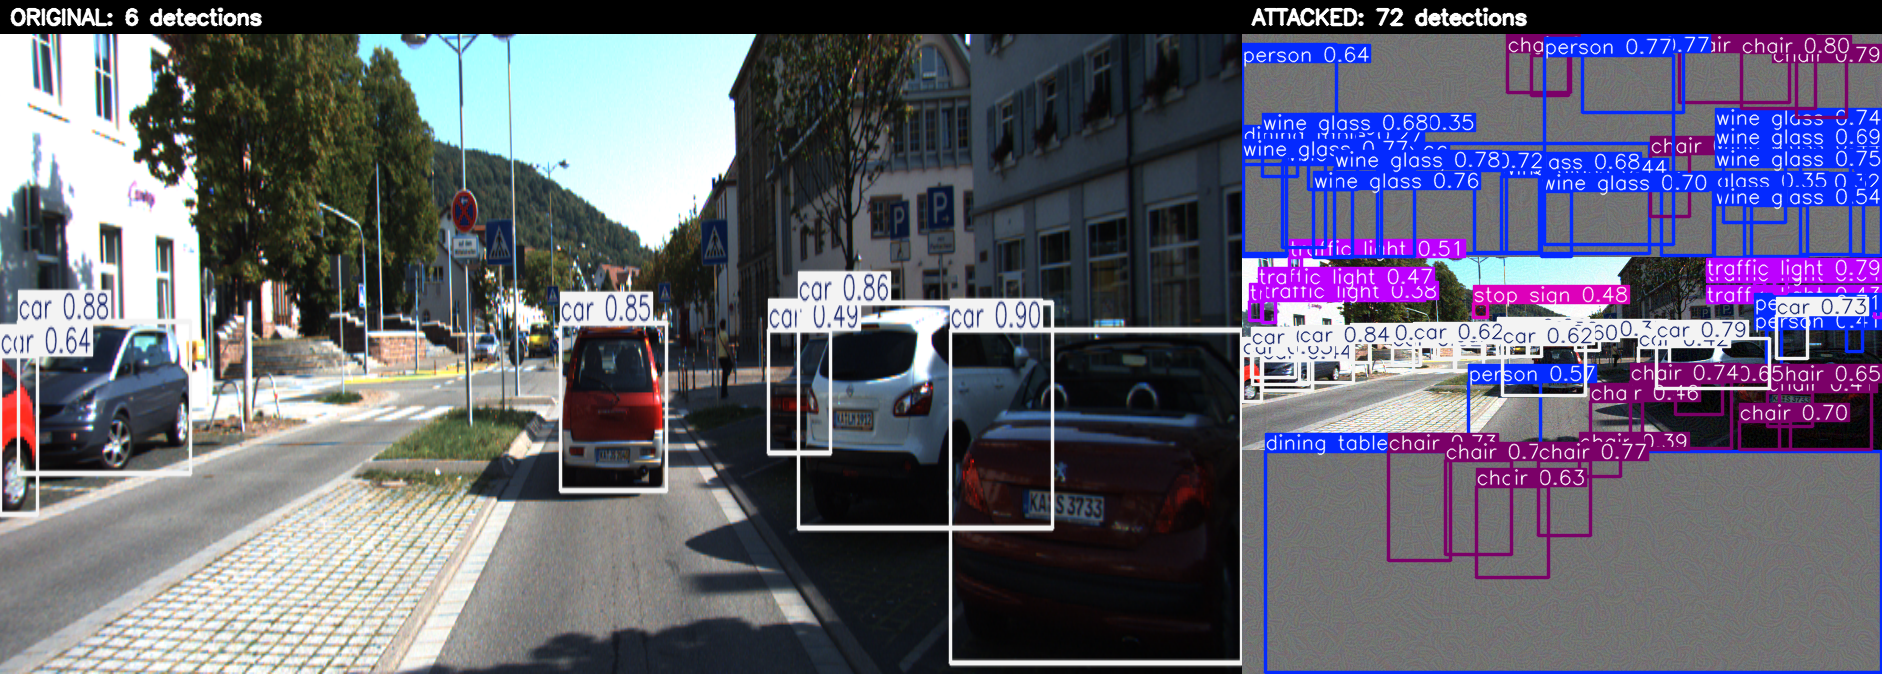
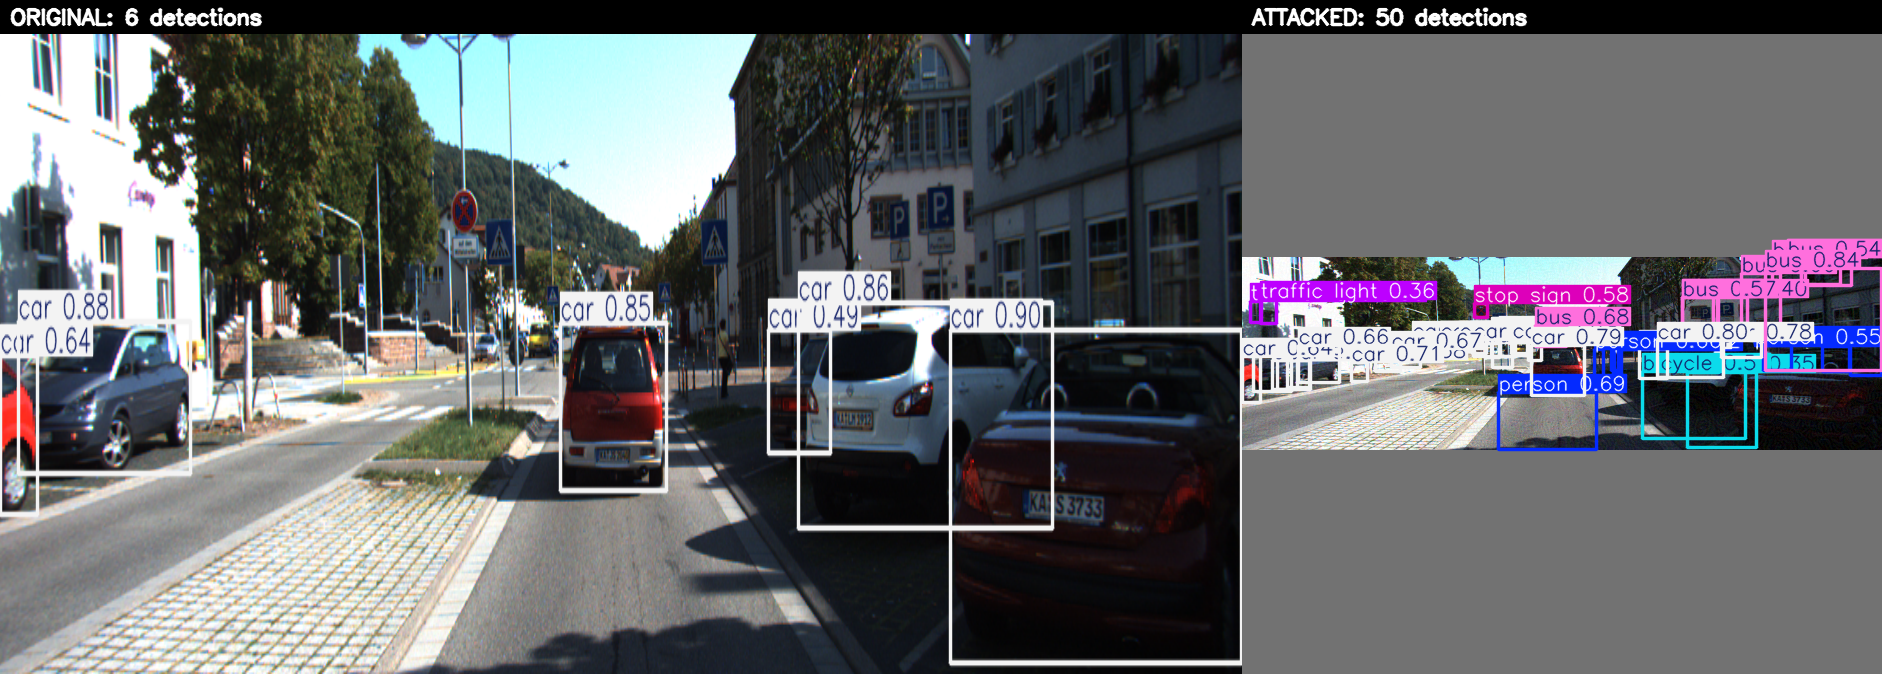
Add content-region mask; re-run KITTI with realizable threat model
The attack now masks both the perturbation (pixels) and the flood loss
(anchors) to the scene-content region, excluding the grey letterbox padding a
real camera attacker can't control. Previously ~45% of the flood was
un-realizable padding detections.

Content-only KITTI seq 0011 results (warmed, median): detections 5.8 -> 51.7,
SlowTrack tracker 0.684 -> 2.136 ms = ~3.1x (was 5.2x with padding), tracks
4.7 -> 17.5. Regenerated compare image now shows boxes only in scene content,
clean grey bars. README + results.md updated.

Changed region(s): [[0.6472, 0.0312, 1.0, 1.0], [0.6472, 0.0623, 0.7396, 0.1246], [0.7088, 0.0, 0.7396, 0.0312]]

diff --git a/src/attack.py b/src/attack.py
@@ -32,26 +32,47 @@ def weighted_var(v, w, eps=1e-6):
     return var.mean()
 
 
-def pgd_attack(model, x0, tau, alpha, eps, step, iters, lam, imgsz):
-    """Returns adversarial image (same shape as x0, in [0,1])."""
+def pixel_mask(x0, content):
+    """[1,1,H,W] mask: 1 inside the scene-content rect, 0 in the letterbox padding."""
+    x0c, y0c, x1c, y1c = content
+    m = torch.zeros_like(x0[:, :1])
+    m[:, :, y0c:y1c, x0c:x1c] = 1.0
+    return m
+
+
+def anchor_mask(model, content):
+    """[A] mask of anchors whose center lies in the scene-content rect. Restricts
+    the flood/spread loss to content anchors (valid after a dense() call)."""
+    ax, ay = model.anchor_centers()
+    x0c, y0c, x1c, y1c = content
+    return ((ax >= x0c) & (ax < x1c) & (ay >= y0c) & (ay < y1c)).float()
+
+
+def pgd_attack(model, x0, content, tau, alpha, eps, step, iters, lam, imgsz):
+    """Returns adversarial image (same shape as x0, in [0,1]). The perturbation
+    and the loss are restricted to the scene-content region (no padding cheating)."""
+    pmask = pixel_mask(x0, content)
+    model.dense(x0)                                  # populate head anchors for the mask
+    amask = anchor_mask(model, content)
     delta = torch.zeros_like(x0, requires_grad=True)
     for _ in range(iters):
         boxes, conf = model.dense((x0 + delta).clamp(0, 1))
-        w = torch.sigmoid(alpha * (conf - tau))         # soft "is a detection"
-        flood = w.sum(dim=1).mean()                      # L_flood: maximize count
+        w = torch.sigmoid(alpha * (conf - tau)) * amask   # only content anchors
+        flood = w.sum(dim=1).mean()                       # L_flood: maximize count
         cx = (boxes[:, 0, :] + boxes[:, 2, :]) / 2 / imgsz   # box centers (boxes are xyxy)
         cy = (boxes[:, 1, :] + boxes[:, 3, :]) / 2 / imgsz
         spread = weighted_var(cx, w) + weighted_var(cy, w)   # L_spread: diversity
         loss = -(flood + lam * spread)                   # PGD minimizes -> count goes up
         g = torch.autograd.grad(loss, delta)[0]
         delta = (delta - step * g.sign()).clamp(-eps, eps)
+        delta = delta * pmask                            # freeze padding pixels at grey
         delta = ((x0 + delta).clamp(0, 1) - x0).detach().requires_grad_(True)
     return (x0 + delta).clamp(0, 1).detach()
 
 
-def random_noise(x0, eps):
-    """Control: uniform L-inf noise of the same budget, no gradient signal."""
-    d = (torch.rand_like(x0) * 2 - 1) * eps
+def random_noise(x0, content, eps):
+    """Control: uniform L-inf noise of the same budget, restricted to content."""
+    d = (torch.rand_like(x0) * 2 - 1) * eps * pixel_mask(x0, content)
     return (x0 + d).clamp(0, 1).detach()
 
 
@@ -91,20 +112,21 @@ def main():
         raise SystemExit(f"no images found in {args.images}")
 
     for i, p in enumerate(paths):
-        x0 = image_to_tensor(p, args.imgsz, device)
+        x0, content = image_to_tensor(p, args.imgsz, device)
         with torch.no_grad():
             _, c0 = model.dense(x0)
-        before = int((c0 > args.tau).sum())
+            amask = anchor_mask(model, content)          # count content anchors only
+        before = int(((c0 > args.tau).float() * amask).sum())
 
         if args.mode == "attack":
-            adv = pgd_attack(model, x0, args.tau, args.alpha, args.eps,
+            adv = pgd_attack(model, x0, content, args.tau, args.alpha, args.eps,
                              args.step, args.iters, args.lam, args.imgsz)
         else:
-            adv = random_noise(x0, args.eps)
+            adv = random_noise(x0, content, args.eps)
 
         with torch.no_grad():
             _, c1 = model.dense(adv)
-        after = int((c1 > args.tau).sum())
+        after = int(((c1 > args.tau).float() * amask).sum())
 
         out_path = os.path.join(args.out, os.path.basename(p))
         cv2.imwrite(out_path, tensor_to_bgr(adv))

diff --git a/src/common.py b/src/common.py
@@ -40,15 +40,26 @@ def letterbox(im: np.ndarray, new: int = 640, color: int = 114):
     return padded, r, (dw, dh)
 
 
-def image_to_tensor(path: str, imgsz: int, device: str) -> torch.Tensor:
-    """Load an image from disk -> letterboxed [1,3,imgsz,imgsz] float tensor in [0,1], RGB."""
+def image_to_tensor(path: str, imgsz: int, device: str):
+    """Load an image from disk -> letterboxed [1,3,imgsz,imgsz] float tensor in [0,1], RGB.
+
+    Also returns the scene-content rectangle (x0, y0, x1, y1) in imgsz coords —
+    the region holding the real (resized) image, excluding the grey letterbox
+    padding. The attack masks the perturbation and the loss to this region so it
+    can't cheat by flooding the padding (which a real camera attacker can't touch).
+    """
     bgr = cv2.imread(path)
     if bgr is None:
         raise FileNotFoundError(path)
-    padded, _, _ = letterbox(bgr, imgsz)
+    padded, r, (dw, dh) = letterbox(bgr, imgsz)
     rgb = cv2.cvtColor(padded, cv2.COLOR_BGR2RGB)
     t = torch.from_numpy(rgb).to(device).float().div(255.0)
-    return t.permute(2, 0, 1).unsqueeze(0).contiguous()  # [1,3,H,W]
+    t = t.permute(2, 0, 1).unsqueeze(0).contiguous()       # [1,3,H,W]
+    h, w = bgr.shape[:2]
+    nh, nw = round(h * r), round(w * r)                     # resized content size
+    x0, y0 = round(dw - 0.1), round(dh - 0.1)              # matches letterbox padding
+    content = (x0, y0, x0 + nw, y0 + nh)
+    return t, content
 
 
 class YoloV10Dense:
@@ -95,3 +106,9 @@ class YoloV10Dense:
         boxes = y[:, :4, :]
         conf = y[:, 4:, :].amax(dim=1)     # max over class channels -> per-anchor confidence
         return boxes, conf
+
+    def anchor_centers(self):
+        """Pixel-space (x, y) centers of every anchor, [A] each. Valid after a
+        dense() call (the head caches `anchors`/`strides` during _inference)."""
+        a, s = self.head.anchors, self.head.strides   # a:[2,A] grid+0.5 units, s:[1,A]
+        return a[0] * s[0], a[1] * s[0]

diff --git a/results.md b/results.md
@@ -6,8 +6,10 @@ Real autonomous-driving evaluation: white-box PGD overload attack on YOLOv10
 
 ## Visual: what the model sees
 
-Original (6 real detections) vs attacked (72 phantom boxes) — the perturbation
-is invisible to the eye, but the detector is flooded.
+Original (6 real detections) vs attacked (50 phantom boxes) — the perturbation
+is invisible to the eye, but the detector is flooded. Note the phantom boxes are
+confined to the **scene content**; the grey letterbox padding is left clean
+(see the threat-model note below).
 
 ![Original vs attacked — KITTI seq 0011 frame 000010](output/compare_kitti_0011.png)
 
@@ -19,35 +21,52 @@ is invisible to the eye, but the detector is flooded.
 | Tracker | SlowTrack (vendored, `--tracker slowtrack`) |
 | Sequence | KITTI Tracking **seq 0011**, first **30** consecutive frames (375×1242) |
 | Attack | white-box PGD, L∞ ε = 8/255, 40 iters, conf threshold τ = 0.25 |
+| Threat model | perturbation + loss masked to the **scene-content region** |
 | Hardware | laptop **CPU** (timings warmed up, reported as median) |
+
+## Threat model — content-region only
+
+The perturbation and the flood loss are restricted to the **scene-content
+region**, excluding the grey letterbox padding that the preprocessing pipeline
+inserts to make the wide frame square. A real camera attacker controls the
+scene, not that inserted padding, so flooding it would be un-realizable.
+
+Without the mask, the same setup reads `5.8 → 94.6` detections and a `5.2×`
+tracker multiplier — but **~45% of that flood was padding detections** a camera
+attacker could never produce. The content-only numbers below are the honest,
+deployment-realistic result.
 
 ## Detector flood
 
-The attack drives the per-frame detection count up ~16× while remaining
+The attack drives the per-frame detection count up ~9× while remaining
 imperceptible:
 
 | metric | clean | adversarial |
 |---|---|---|
-| dense anchors above threshold (mean) | ~4 | **93.7** (max 122) |
-| post-processed detections / frame (mean) | 5.8 | **94.6** (max 123) |
+| dense anchors above threshold (mean) | ~5 | **51.4** (max 69) |
+| post-processed detections / frame (mean) | 5.8 | **51.7** (max 69) |
 
 The same-budget random-noise control does **not** flood (stays ≈ clean) — the
 flood is adversarial, not just any perturbation.
 
 ## Tracker latency (the headline payload)
 
-SlowTrack `update()` timed in isolation, per frame (median):
+SlowTrack `update()` timed in isolation, per frame:
 
 | metric | clean | adversarial | change |
 |---|---|---|---|
-| **tracker latency** | **0.709 ms** | **3.663 ms** | **5.2×** |
-| tracker latency (mean) | 0.721 ms | 3.651 ms | 5.1× |
-| active tracks | 4.7 | 27.4 | 5.8× |
-| detections / frame | 5.8 | 94.6 | 16× |
+| **tracker latency (median)** | **0.684 ms** | **2.136 ms** | **~3.1×** |
+| tracker latency (mean) | 0.911 ms* | 2.104 ms | 2.3× |
+| active tracks | 4.7 | 17.5 | 3.7× |
+| detections / frame | 5.8 | 51.7 | ~9× |
 
-**The attack slows the downstream tracker ~5.2×** for an imperceptible change to
-the camera frame, even though the detector removed NMS specifically to be
-end-to-end. The latency surface didn't disappear — it relocated to the tracker.
+\* the clean mean is inflated by a single first-frame outlier; the **median** is
+the robust figure, hence the ~3.1× headline.
+
+**The attack slows the downstream tracker ~3.1×** for an imperceptible,
+camera-realizable change to the frame, even though the detector removed NMS
+specifically to be end-to-end. The latency surface didn't disappear — it
+relocated to the tracker.
 
 ## Detector latency — honest caveat
 
@@ -55,19 +74,19 @@ The detector's forward is **fixed-FLOP** and does not grow with the flood
 (verified in isolation: clean vs adversarial forward ≈ **193 vs 196 ms**), so
 algorithmically it can't be slowed — that is the NMS-free thesis.
 
-End-to-end CPU `predict()` *does* show inference rising ~**113 → 250 ms (≈1.4×)**
-on adversarial frames, but this is a **denormal-float artifact**: the
-perturbation drives subnormal values into the fused Conv+BN path, which is slow
-on CPU. Evidence:
+End-to-end CPU `predict()` *does* show inference rising (~**106 → 229 ms** here),
+but this is a **denormal-float artifact**: the perturbation drives subnormal
+values into the fused Conv+BN path, which is slow on CPU. Evidence:
 
 - Ultralytics per-stage timing: preprocess and **postprocess flat (0.2 ms)**;
-  all growth is in **inference** (116 → 233 ms).
-- `torch.set_flush_denormal(True)` cuts the ratio from **1.42× → 1.11×**.
+  all growth is in **inference**.
+- In a controlled same-frame test the denormal-attributable slowdown is ≈1.4×,
+  and `torch.set_flush_denormal(True)` cuts it to ≈1.1×.
 - GPUs flush denormals to zero by default, so this effect is absent there.
 
 Conclusion: the detector slowdown is a CPU-test-rig effect, not a real
 detector-side latency attack. The robust, deployment-relevant payload is the
-**tracker (5.2×)**.
+**tracker (~3.1×)**.
 
 ## Reproduce
 

diff --git a/README.md b/README.md
@@ -140,16 +140,24 @@ with phantom boxes), perturbation invisible, with detection-count banners.
 ## Results
 
 **Headline (KITTI Tracking seq 0011, 30 real frames, CPU, warmed, median):**
-the attack floods the detector `5.8 → 94.6` detections/frame (max 123) and the
-**SlowTrack tracker latency goes `0.709 → 3.663 ms = 5.2×`** (active tracks
-`4.7 → 27.4`). See `output/compare_kitti_0011.png` — 6 real detections vs 72
-phantom boxes, perturbation invisible.
+the attack floods the detector `5.8 → 51.7` detections/frame (max 69) and the
+**SlowTrack tracker latency goes `0.684 → 2.136 ms = ~3.1×`** (active tracks
+`4.7 → 17.5`). See `output/compare_kitti_0011.png` — 6 real detections vs 50
+phantom boxes, perturbation invisible, all in the scene content (grey letterbox
+padding is left clean).
+
+**Threat model — content-region only.** The perturbation and the loss are
+masked to the **scene-content region**, excluding the grey letterbox padding the
+preprocessing pipeline inserts. A real camera attacker controls the scene, not
+that padding, so flooding it would be cheating. (Without the mask the same setup
+reads `5.8 → 94.6` detections / `5.2×`; ~45% of that flood was un-realizable
+padding detections — the content-only numbers below are the honest result.)
 
 **Tracker latency multiplier** (the headline payload):
 
 | sequence                    | tracker   | clean ms | adv ms | multiplier |
 |-----------------------------|-----------|----------|--------|------------|
-| **KITTI seq 0011 (real)**   | slowtrack | 0.709    | 3.663  | **5.2×**   |
+| **KITTI seq 0011 (real, content-masked)** | slowtrack | 0.684 | 2.136 | **~3.1×** |
 | synthetic 16-frame (legacy) | slowtrack | 0.685    | 2.814  | 4.1×       |
 | synthetic 16-frame (legacy) | bytetrack | 0.556    | 3.133  | 5.6×       |
 
@@ -159,10 +167,11 @@ The primary downstream consumer is **SlowTrack** (`--tracker slowtrack`);
 **On the detector latency — an honest nuance.** The detector's forward is
 fixed-FLOP (verified: clean vs adversarial forward ≈ 193 vs 196 ms in
 isolation), so algorithmically it can't be slowed — that's the NMS-free thesis.
-But end-to-end CPU `predict()` *does* show inference `~113 → 250 ms (≈1.4×)` on
-the flood. That extra cost is a **denormal-float artifact**: the perturbation
-drives subnormal values into the fused Conv+BN path, which is slow on CPU.
-`torch.set_flush_denormal(True)` cuts it from 1.42× to 1.11×, and GPUs flush
+But end-to-end CPU `predict()` *does* show inference rising on the flood
+(~106 → 229 ms here). That extra cost is a **denormal-float artifact**: the
+perturbation drives subnormal values into the fused Conv+BN path, which is slow
+on CPU. In a controlled same-frame test the denormal-attributable slowdown is
+≈1.4×, and `torch.set_flush_denormal(True)` cuts it to ≈1.1×; GPUs flush
 denormals by default — so this is a CPU-test-rig effect, not a real detector
 latency attack. The robust, deployment-relevant payload is the **tracker**.
 